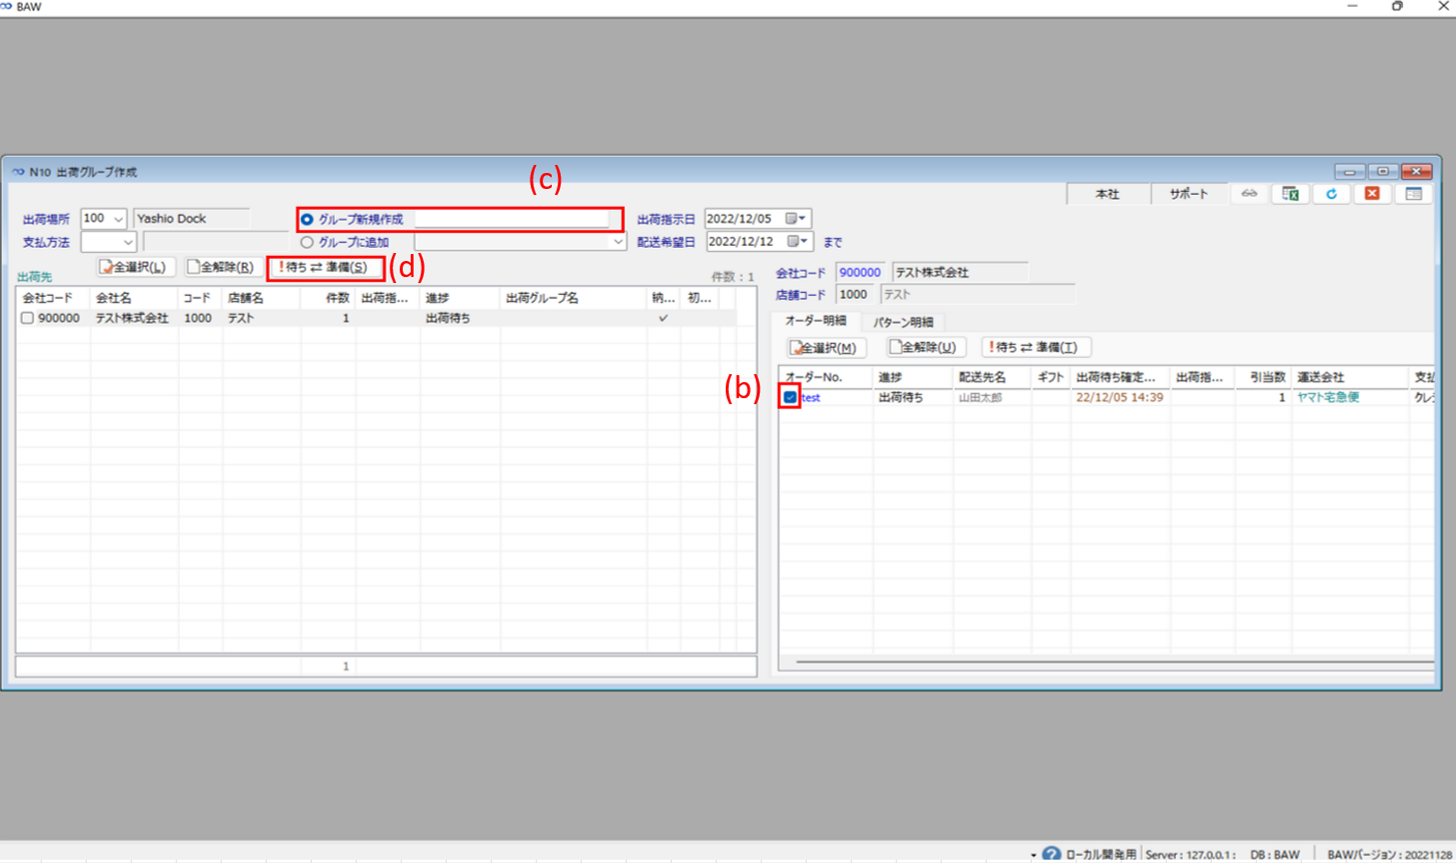
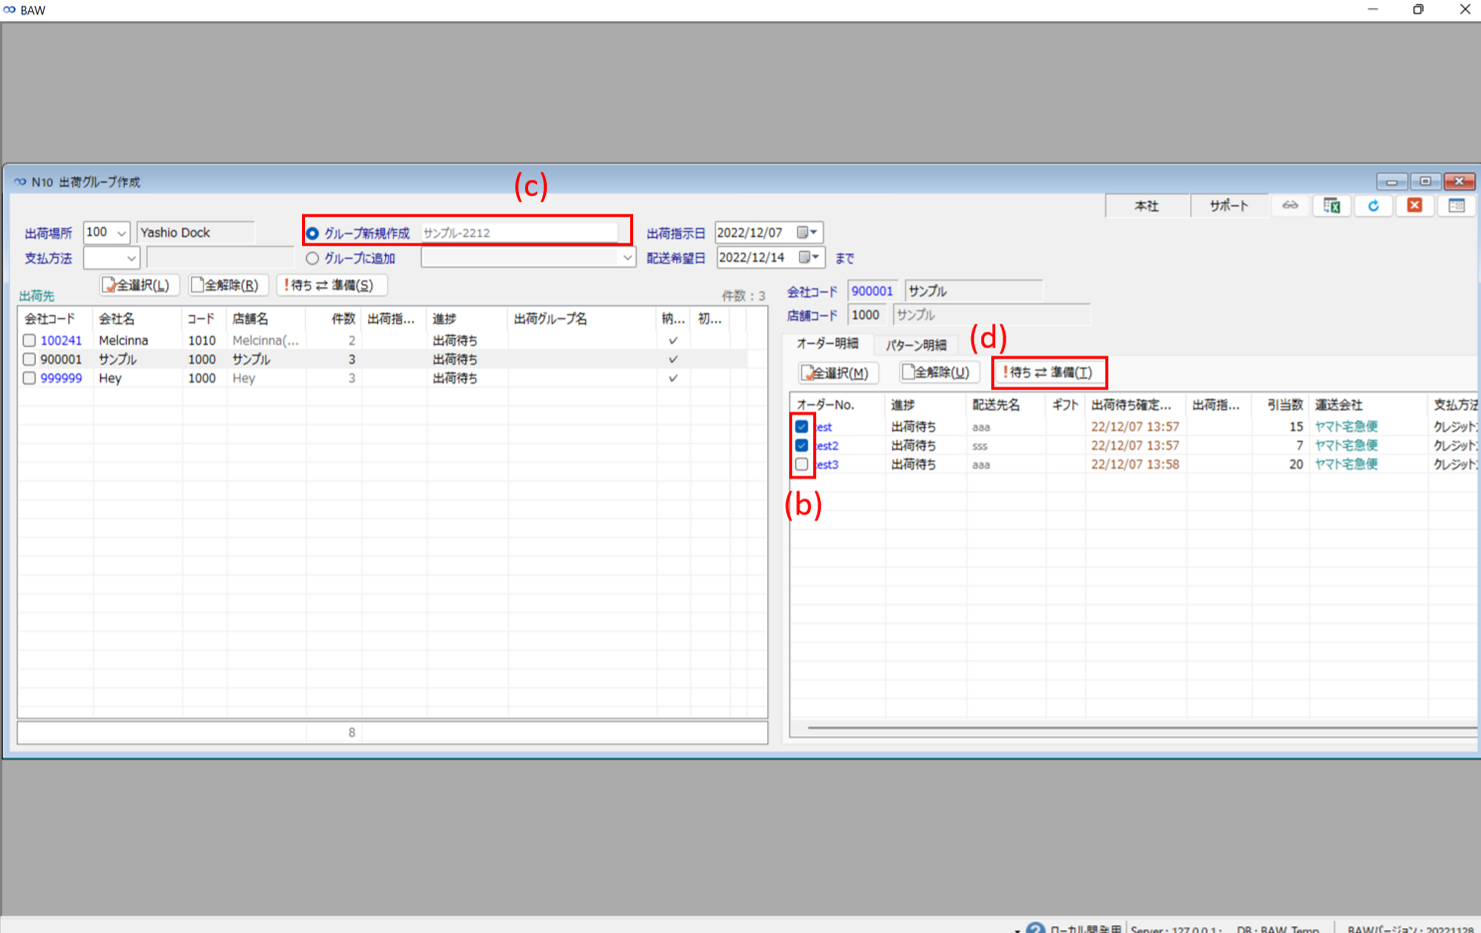
N10レビュー分修正

Changed region(s): [[0.0, 0.1506, 1.0, 0.8134], [0.0, 0.9641, 1.0, 1.0], [0.0, 0.0, 1.0, 0.0301]]

diff --git a/Ship.md b/Ship.md
@@ -17,16 +17,19 @@
         1. 左枠の[出荷先]の画面からチェックボックスを選択します。
         2. [グループ新規作成]の欄に分かりやすい出荷グループ名を入力します。
         3. [待ち⇔準備]ボタンをクリックします。![左枠から出荷グループ作成](/img/Ship/N10_ShippingGroupMake_leftUI.png)
+        4. 左枠の出荷グループ名に追記され、グループが作成されたことが分かります。![左枠から出荷グループ作成完了](/img/Ship/N10_ShippingGroupDone_leftUI.png)
     2.  オーダー明細から作成
         1. 特定のオーダーNoで出荷グループを作成したい場合、利用します。
         2. 右枠の[オーダー明細]の画面から該当オーダーのチェックボックスを選択します。
         3. [グループ新規作成]の欄に分かりやすい出荷グループ名を入力します。
         4. [待ち⇔準備]ボタンをクリックします。![オーダー明細から出荷グループ作成](/img/Ship/N10_ShippingGroupMake_OrderDtl.png)
+        5. 左枠の出荷グループ名に追記され、グループが作成されたことが分かります。オーダーを分割してグループ作成した場合、左枠で未作成と作成分で行が分割されます。![オーダーから出荷グループ作成完了](/img/Ship/N10_ShippingGroupDone_OrderDtl.png)
     3. パターン明細から作成
        1. 特定のパターン明細で出荷グループを作成したい場合、利用します。
-       2. 右枠の[パターン明細]の画面から指定したいパターン件数を選択します。
+       2. 右枠の[パターン明細]の画面から指定したいパターン件数を選択します。件数は画像緑枠の件数を参照ください。画像の例だと2件と選択しているのでパターンNo100,101がグループ作成されます。
        3. [グループ新規作成]の欄に分かりやすい出荷グループ名を入力します。
        4.  [更新]をクリックします。![パターン明細から出荷グループ作成](/img/Ship/N10_ShippingGroupMake_PatternDtl.png)
+       5.  左枠の出荷グループ名に追記され、グループが作成されたことが分かります。パターンを分割してグループ作成した場合、左枠で未作成と作成分で行が分割されます。![パターンから出荷グループ作成完了](/img/Ship/N10_ShippingGroupDone_PatternDtl.png)
 
 ## N15 出荷帳票作成
 1. サイドメニューの出荷(N)から出荷帳票作成(N15)を開きます。![N15メニュー](/img/Ship/N15_Menu.png)

diff --git a/ItemPO.md b/ItemPO.md
@@ -9,11 +9,11 @@
 2. サイドメニューの入荷(S)から入荷予定 一括入荷処理(S19)を開きます。![S19メニュー](/img/ItemPO/S19_Menu.png)
 3. [表示]ボタンをクリックすると荷主様が登録した入荷予定一覧が表示されます。会社名、品番、入荷数など必要な項目が表示されます。![入荷一括処理画面](/img/ItemPO/S19_Default.png)
 4. 画面右側の登録欄について説明します。
-   1. 入荷ロケーションNo(※必須)
+   1. 入荷ロケーションNo**(※必須)**
       1. 入荷商品を格納するロケNoを登録します。在庫場所コードで倉庫をまたいで登録可能です。
    2. 消費期限
       1. 入荷商品の消費期限を登録できます。
-   3. 商品サイズ(※必須)
+   3. 商品サイズ**(※必須)**
       1. 保管料を請求するため、商品サイズを登録します。画面右側の[縦][横][高]の欄に商品の三辺サイズを入力し[更新]ボタンをクリックします。
    4. 付帯作業
       1. 入荷商品に対して行う流通加工を登録できます。チェックボックスを選択肢[更新]ボタンをクリックするとその内容で付帯作業が一括登録されます。
@@ -24,7 +24,7 @@
       1. 入荷商品の商品区分を登録できます。変更する場合は[商品][チラシ][梱包資材][特殊梱包資材]から一つ選択してください。
    7. ラベル印刷
       1. 入荷商品のJANコードを印刷できる画面が起動します。(W14)
-   8. 入荷確定(必須)
+   8. 入荷確定**(必須)**
       1. 入荷日を選択し、[入荷]ボタンをクリックすると入荷が確定され、在庫計上されます。![S19登録欄画面](/img/ItemPO/S19_InsertField.png)
 ## S22 入荷予定一覧
 1.  サイドメニューの入荷(S)から入荷予定 一覧(S22)を開きます。
